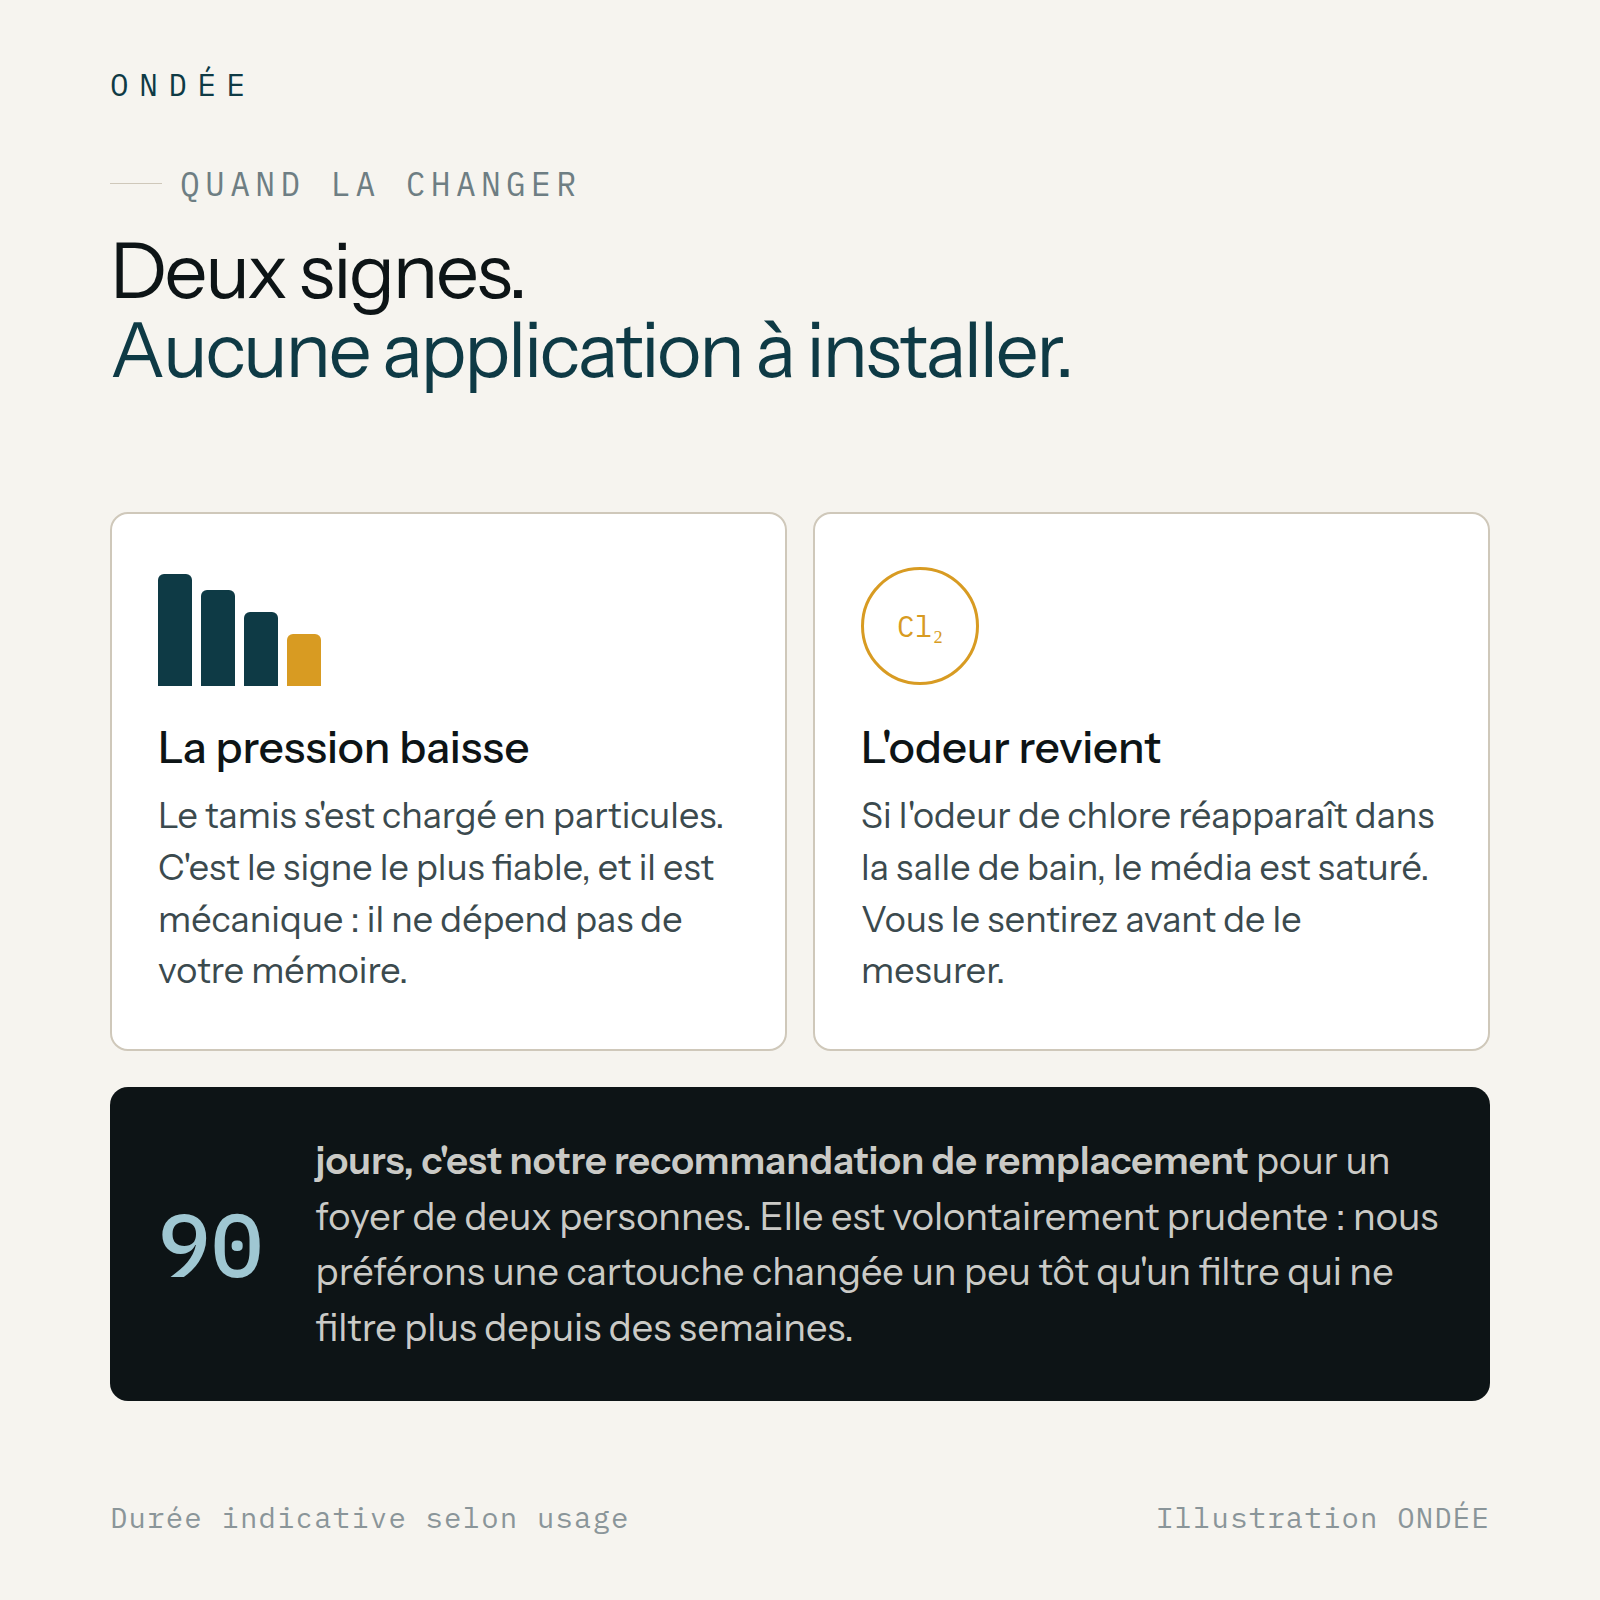
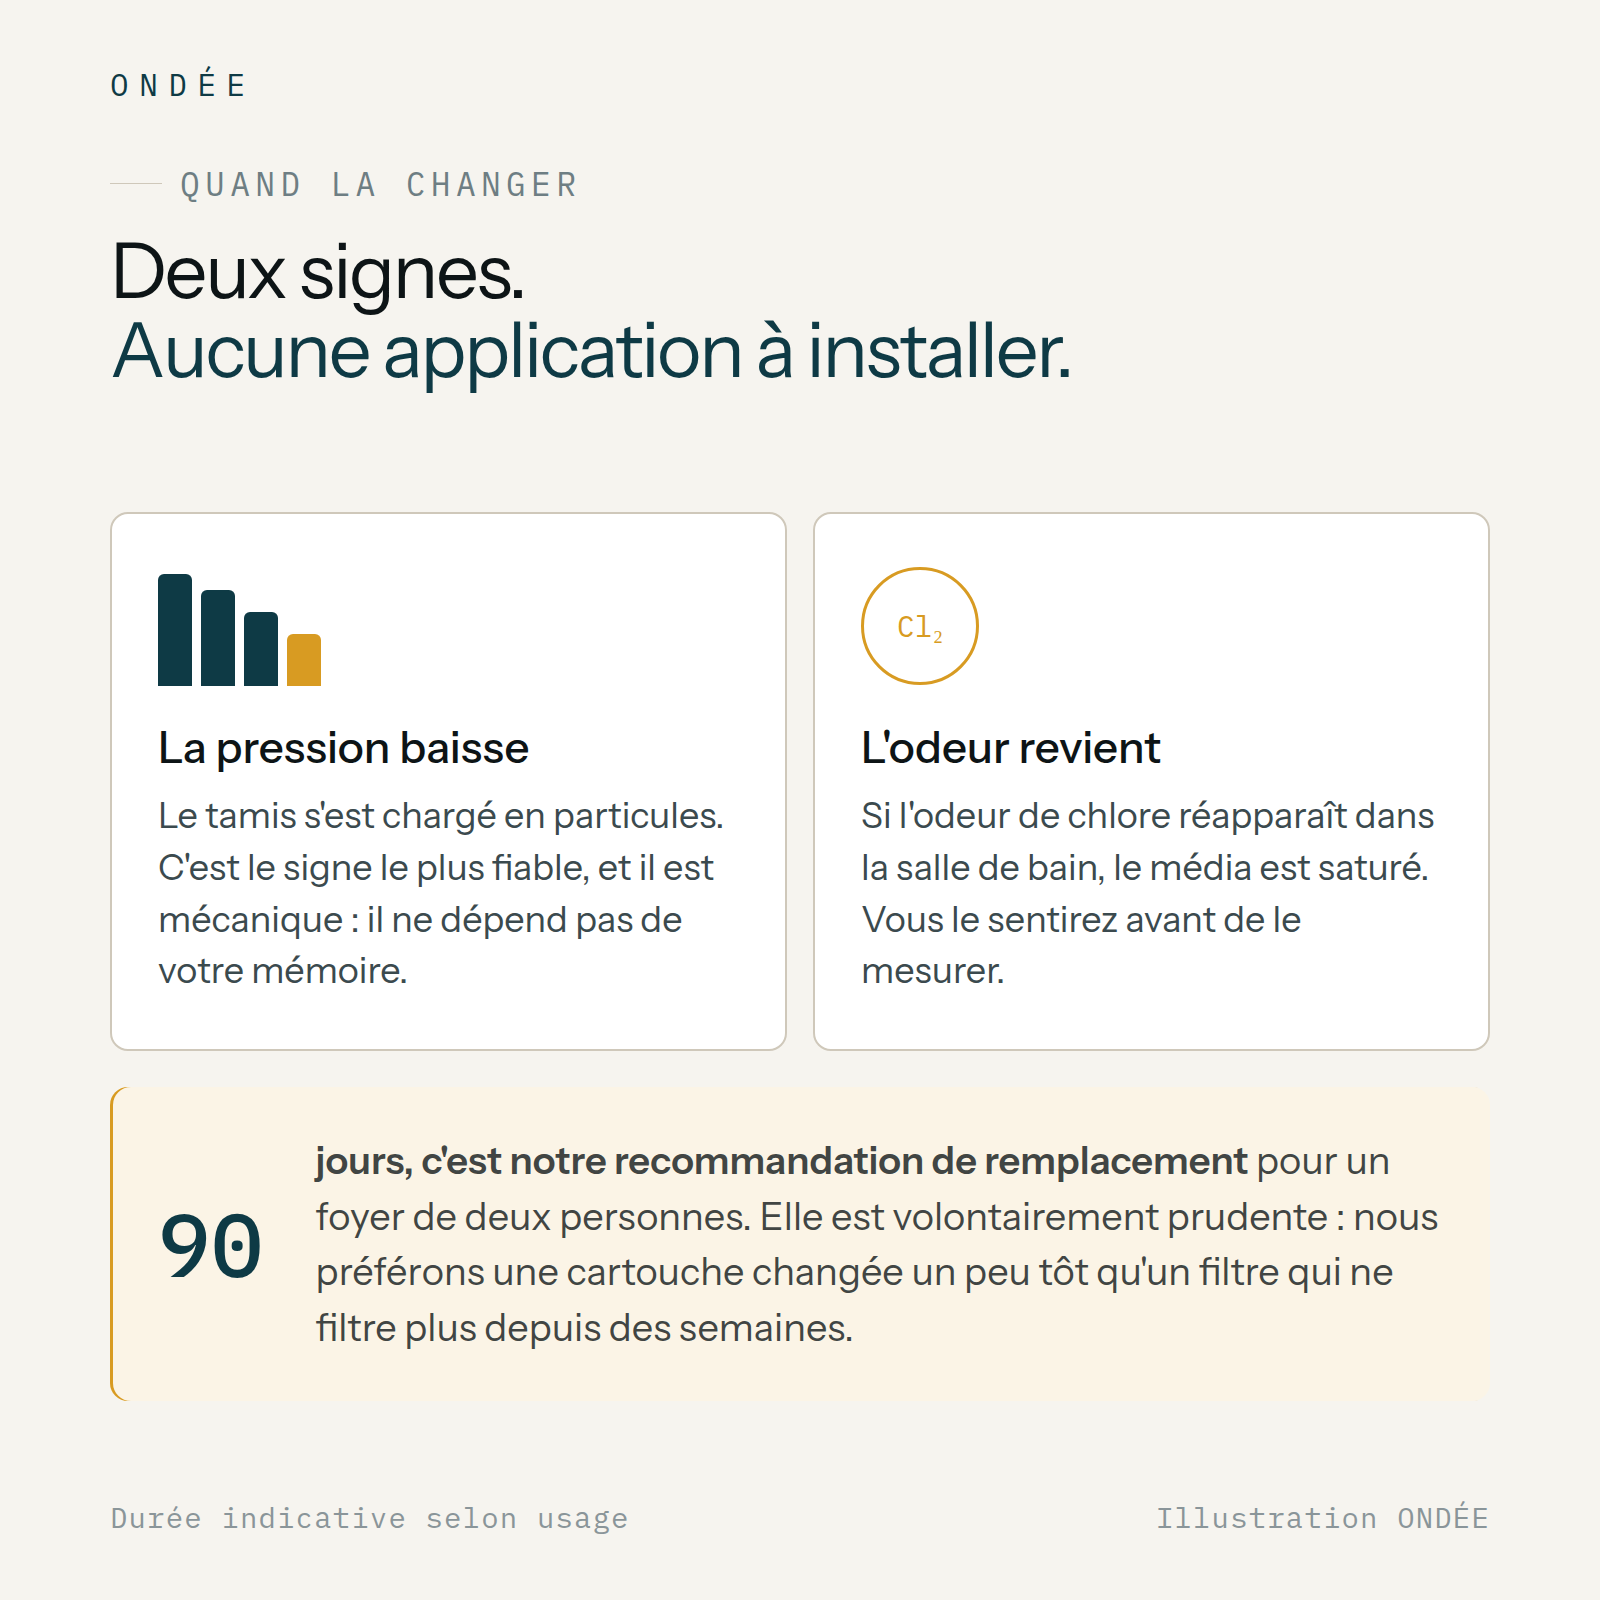
ONDÉE — correction des visuels qui se lisaient comme des images cassées
Diagnostic
- Aucune image n'était réellement cassée : le Liquid du thème ne produit aucune
  source vide, les huit SVG du thème se chargent, et les douze médias produit
  sont READY sans erreur côté Shopify. Vérifié en rendant le vrai gabarit
  main-product.liquid avec les vraies données produit.
- La cause est ailleurs, et elle est dans mes propres illustrations : trois
  d'entre elles comportaient un pavé plein en encre #0D1416 occupant 12 à 16 %
  de la surface. Réduites en vignette de 66 px, ces images se lisent comme un
  rectangle noir, c'est-à-dire exactement comme une image défectueuse. Mesuré
  objectivement : filtre-03-limites 16,0 %, cart-02-quand 13,2 %,
  filtre-07-compatibilite 12,5 %.

Correction
- Les trois pavés encre deviennent un fond sable clair avec un filet ambre à
  gauche. La distinction visuelle entre ce que le filtre fait et ce qu'il ne
  fait pas est conservée, sans aplat sombre. Après correction, le pire cas des
  douze visuels tombe à 0,2 % de pixels très sombres.
- Les trois images corrigées sont téléversées et remplacent les anciennes sur
  les fiches produit, avec leur texte alternatif.

Ordre de la galerie
- Les médias du filtre sont réordonnés selon la hiérarchie demandée : l'objet
  d'abord, puis le contenu de la boîte, l'installation, la preuve par
  bandelette, le détail des médias filtrants, et les deux planches
  d'explication en dernier.

Tableau de coût par douche, refait
[…]

Changed region(s): [[0.0625, 0.6562, 0.9375, 0.875]]

diff --git a/.visuels/cart-03-cout.html b/.visuels/cart-03-cout.html
@@ -35,12 +35,8 @@ h1 em{font-style:normal;color:#0E3A45}
 <div style="margin-top:52px"><p class="oeil">Le vrai coût</p><h1>Ce que ça coûte<br><em>vraiment, par douche.</em></h1></div>
 <div class="corps">
 <div class="tb">
-  <div class="r h"><span>Formule</span><span style="text-align:right">La cartouche</span><span style="text-align:right">Par douche*</span></div>
-  <div class="r best"><span class="f">Abonnement<small>2 cartouches tous les 6 mois — sans engagement</small></span><span class="p">14,50 €</span><span class="u">≈ 6 cts</span></div>
-  <div class="r"><span class="f">Lot de 4<small>Douze mois d'avance, achat unique</small></span><span class="p">14,75 €</span><span class="u">≈ 6 cts</span></div>
-  <div class="r"><span class="f">Lot de 2<small>Six mois</small></span><span class="p">17,00 €</span><span class="u">≈ 7 cts</span></div>
-  <div class="r"><span class="f">À l'unité<small>Pour dépanner</small></span><span class="p">19,00 €</span><span class="u">≈ 8 cts</span></div>
+  <div class="r h"><span>Formule</span><span style="text-align:right">La cartouche</span><span style="text-align:right">Par douche*</span></div><div class="r best"><span class="f">Lot de 4<small>Douze mois d'avance — le meilleur prix</small></span><span class="p">13,75 €</span><span class="u">≈ 11 cts</span></div><div class="r"><span class="f">Lot de 2<small>Six mois d'avance</small></span><span class="p">14,50 €</span><span class="u">≈ 12 cts</span></div><div class="r"><span class="f">À l'unité<small>Pour dépanner</small></span><span class="p">19,00 €</span><span class="u">≈ 15 cts</span></div>
 </div>
-<p class="sous" style="margin-top:34px;font-size:25px">* Estimation pour un foyer de deux personnes prenant environ 250 douches par cartouche. Nous préférons vous donner ce chiffre-là plutôt que de vous vendre un filtre « à vie » dont la recharge coûterait le prix d'une paire de chaussures.</p>
+<p class="sous" style="margin-top:34px;font-size:25px">* Estimation pour un foyer de deux personnes : 500 douches par an, 4 cartouches par an, soit environ 125 douches par cartouche. Achat unique, il n'y a pas d'abonnement. Nous préférons vous donner ce chiffre-là plutôt que de vous vendre un filtre « à vie » dont la recharge coûterait le prix d'une paire de chaussures.</p>
 </div>
 <div class="pied"><span>Prix TTC · estimation d'usage</span><span>Illustration ONDÉE</span></div></body></html>

diff --git a/.visuels/cart-02-quand.html b/.visuels/cart-02-quand.html
@@ -27,9 +27,9 @@ h1 em{font-style:normal;color:#0E3A45}
 .bar{width:34px;border-radius:6px 6px 0 0;background:#0E3A45}
 .k h3{font-size:44px;font-weight:500;margin-bottom:16px}
 .k p{font-size:36px;color:#3B4A4E;line-height:1.44}
-.rap{background:#0D1416;color:#F6F4EF;border-radius:18px;padding:46px 48px;display:flex;align-items:center;gap:52px}
-.rap .g{font-family:'PM';font-size:88px;color:#9FC7D2;line-height:1;font-weight:500}
-.rap p{font-size:38px;line-height:1.46;color:rgba(246,244,239,.84)}
+.rap{background:#FBF4E6;color:#0D1416;box-shadow:inset 3px 0 0 #D89B22;border-radius:18px;padding:46px 48px;display:flex;align-items:center;gap:52px}
+.rap .g{font-family:'PM';font-size:88px;color:#0E3A45;line-height:1;font-weight:500}
+.rap p{font-size:38px;line-height:1.46;color:rgba(13,20,22,.8)}
 </style></head>
 <body><div class="marque">ONDÉE</div>
 <div style="margin-top:52px"><p class="oeil">Quand la changer</p><h1>Deux signes.<br><em>Aucune application à installer.</em></h1></div>

diff --git a/.visuels/filtre-03-limites.html b/.visuels/filtre-03-limites.html
@@ -24,12 +24,12 @@ h1 em{font-style:normal;color:#0E3A45}
 .duo{display:grid;grid-template-columns:1fr 1fr;gap:0;border:2px solid #CFC8BA;border-radius:18px;overflow:hidden}
 .col{padding:48px 46px}
 .col.a{background:#fff}
-.col.b{background:#0D1416;color:#F6F4EF}
+.col.b{background:#FBF4E6;color:#0D1416;box-shadow:inset 3px 0 0 #D89B22}
 .col h2{font-size:46px;font-weight:500;margin-bottom:34px;letter-spacing:-.02em}
-.col.b h2{color:#F6F4EF}
+.col.b h2{color:#0D1416}
 .col ul{list-style:none;display:grid;gap:24px}
 .col li{display:grid;grid-template-columns:38px 1fr;gap:18px;font-size:37px;line-height:1.42;color:#3B4A4E}
-.col.b li{color:rgba(246,244,239,.82)}
+.col.b li{color:rgba(13,20,22,.78)}
 .ic{font-family:'PM';font-size:40px;line-height:1}
 .col.a .ic{color:#0E3A45}
 .col.b .ic{color:#D89B22}

diff --git a/.visuels/filtre-07-compatibilite.html b/.visuels/filtre-07-compatibilite.html
@@ -23,12 +23,12 @@ h1 em{font-style:normal;color:#0E3A45}
 
 .dd{display:grid;grid-template-columns:1fr 1fr;gap:26px;margin-bottom:38px}
 .k{border-radius:18px;padding:46px 44px;border:2px solid #CFC8BA;background:#fff}
-.k.no{background:#0D1416;border-color:#0D1416;color:#F6F4EF}
+.k.no{background:#FBF4E6;border-color:#E5D3AC;color:#0D1416;box-shadow:inset 3px 0 0 #D89B22}
 .k h3{font-size:41px;font-weight:500;margin-bottom:26px}
-.k.no h3{color:#F6F4EF}
+.k.no h3{color:#0D1416}
 .k ul{list-style:none;display:grid;gap:18px}
 .k li{font-size:36px;line-height:1.4;color:#3B4A4E;display:grid;grid-template-columns:34px 1fr;gap:14px}
-.k.no li{color:rgba(246,244,239,.8)}
+.k.no li{color:rgba(13,20,22,.76)}
 .k .i{font-family:'PM';font-size:37px;color:#0E3A45}
 .k.no .i{color:#D89B22}
 </style></head>
